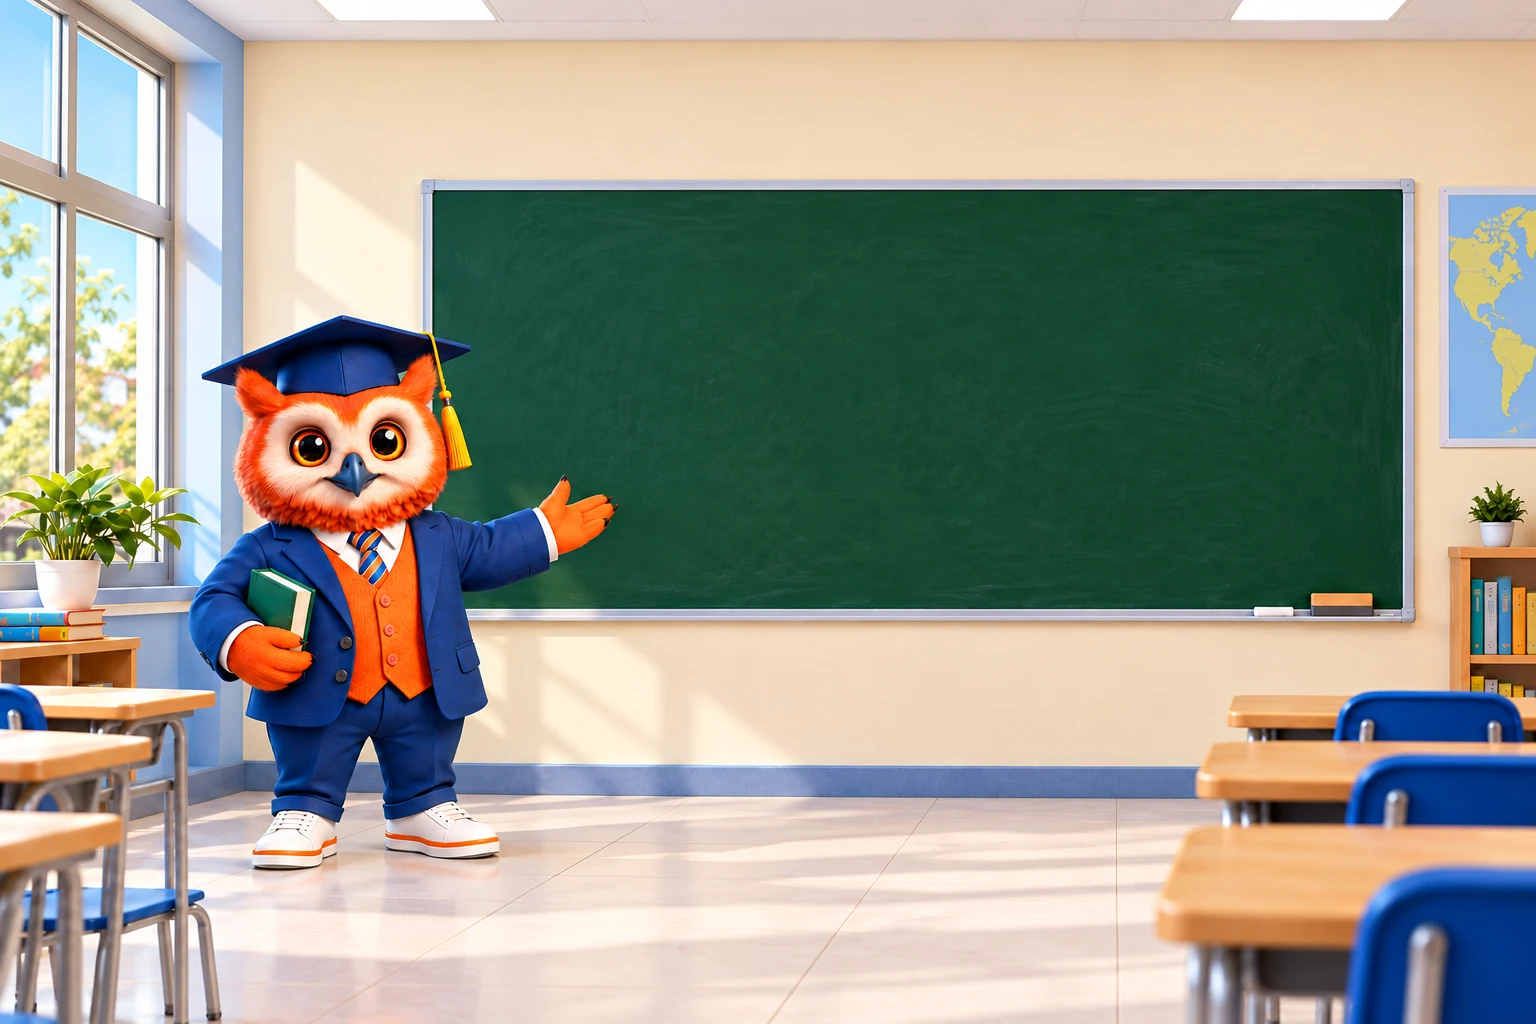
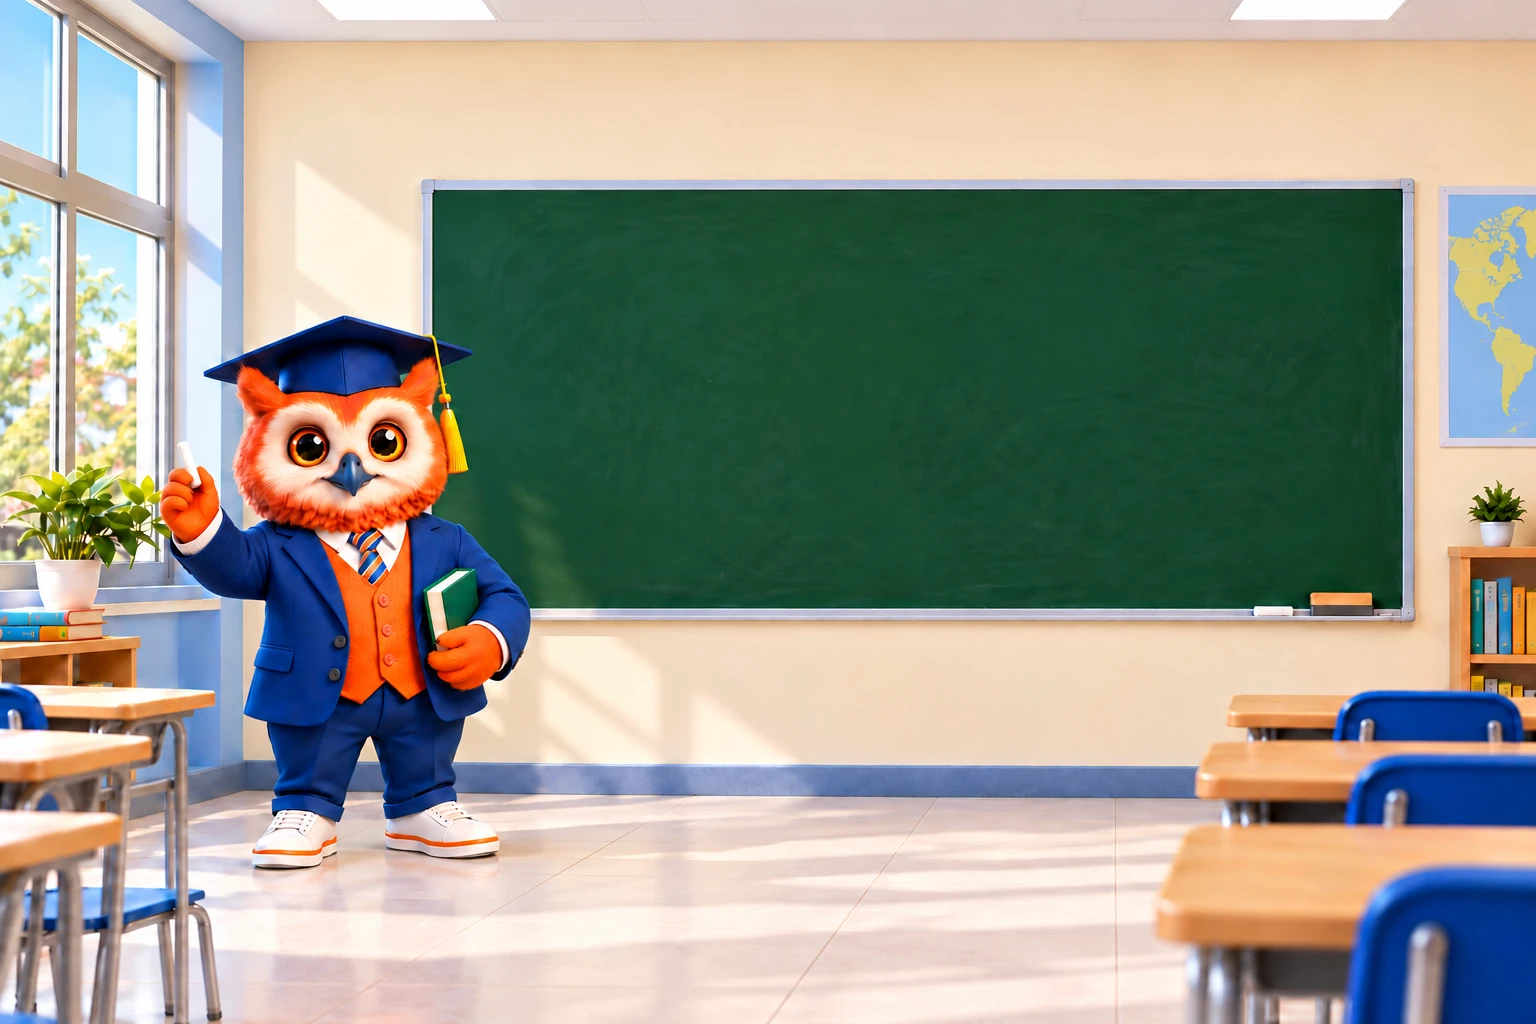
Início: bubo troca de pose ao escrever no quadro
- Imagem parada (bubo de frente com giz) e, ao começar a digitar, troca
  com crossfade para a pose escrevendo no quadro (fundo-sala-escrevendo.webp).
- Overlay segue alinhado (quadro no mesmo lugar nas duas imagens).

diff --git a/inicio2.html b/inicio2.html
@@ -101,7 +101,9 @@
     .board-stage { position: relative; width: 100%; height: 100%; margin: 0; overflow: hidden; }
     /* frame com a proporção da imagem (3:2), dimensionado p/ cobrir a área toda — sem sobra */
     .board-frame { position: absolute; top: 50%; left: 50%; transform: translate(-50%, -50%); width: max(100%, calc((100vh - 90px) * 1.5)); aspect-ratio: 3 / 2; }
-    .board-bg { display: block; width: 100%; height: 100%; }
+    .board-bg { position: absolute; inset: 0; display: block; width: 100%; height: 100%; }
+    .board-bg-write { opacity: 0; transition: opacity .4s ease; }         /* bubo escrevendo (aparece ao digitar) */
+    .board-frame.writing .board-bg-write { opacity: 1; }
     .board-area { position: absolute; top: 17%; left: 34.7%; right: 15.3%; bottom: 36%; display: flex; flex-direction: column; align-items: stretch; justify-content: center; gap: clamp(12px, 2.4vh, 24px); }
     .board-title { font-family: var(--font-display); font-weight: 800; font-size: clamp(17px, 2vw, 27px); color: #fff; text-align: center; text-shadow: 0 1px 6px rgba(0,0,0,.4); margin-bottom: 2px; }
     /* título azul ACIMA do quadro (na parede) */
@@ -138,7 +140,8 @@
       .view-wrap > .content { height: auto; }
       .board-stage { height: auto; }
       .board-frame { position: static; transform: none; width: 100%; aspect-ratio: auto; }
-      .board-bg { height: 160px; object-fit: cover; object-position: 30% 38%; }
+      .board-bg { position: static; height: 160px; object-fit: cover; object-position: 30% 38%; }
+      .board-bg-write { display: none; }
       .board-area { position: static; inset: auto; background: #23453a; margin: 0; padding: 16px; gap: 10px; min-height: 240px; }
     }
 
@@ -335,8 +338,9 @@
   <div class="view-wrap">
     <div class="content">
       <div class="board-stage">
-       <div class="board-frame">
-        <img class="board-bg" src="assets/fundo-sala.webp" alt="Sala de aula com o Bubo apontando para o quadro" />
+       <div class="board-frame" id="boardFrame">
+        <img class="board-bg" src="assets/fundo-sala.webp" alt="Sala de aula com o Bubo" />
+        <img class="board-bg board-bg-write" src="assets/fundo-sala-escrevendo.webp" alt="" aria-hidden="true" />
         <div class="board-area ask-search" id="boardArea" onclick="document.getElementById('busca').focus()">
           <div class="board-title">Vamos falar de que escola? 🦉</div>
           <div class="board-input-wrap">
@@ -417,6 +421,7 @@ function buscar(){
   const q = document.getElementById('busca').value.trim().toLowerCase();
   const box = document.getElementById('results');
   const tk = document.getElementById('boardTicker'); if(tk) tk.style.visibility = q ? 'hidden' : '';
+  const fr = document.getElementById('boardFrame'); if(fr) fr.classList.toggle('writing', !!q);  // bubo vira p/ escrever
   if(!q){ box.hidden = true; matches = []; selIdx = -1; return; }
   matches = ESCOLAS.filter(e=> e.nome.toLowerCase().includes(q) || e.bairro.toLowerCase().includes(q));
   selIdx = -1;
